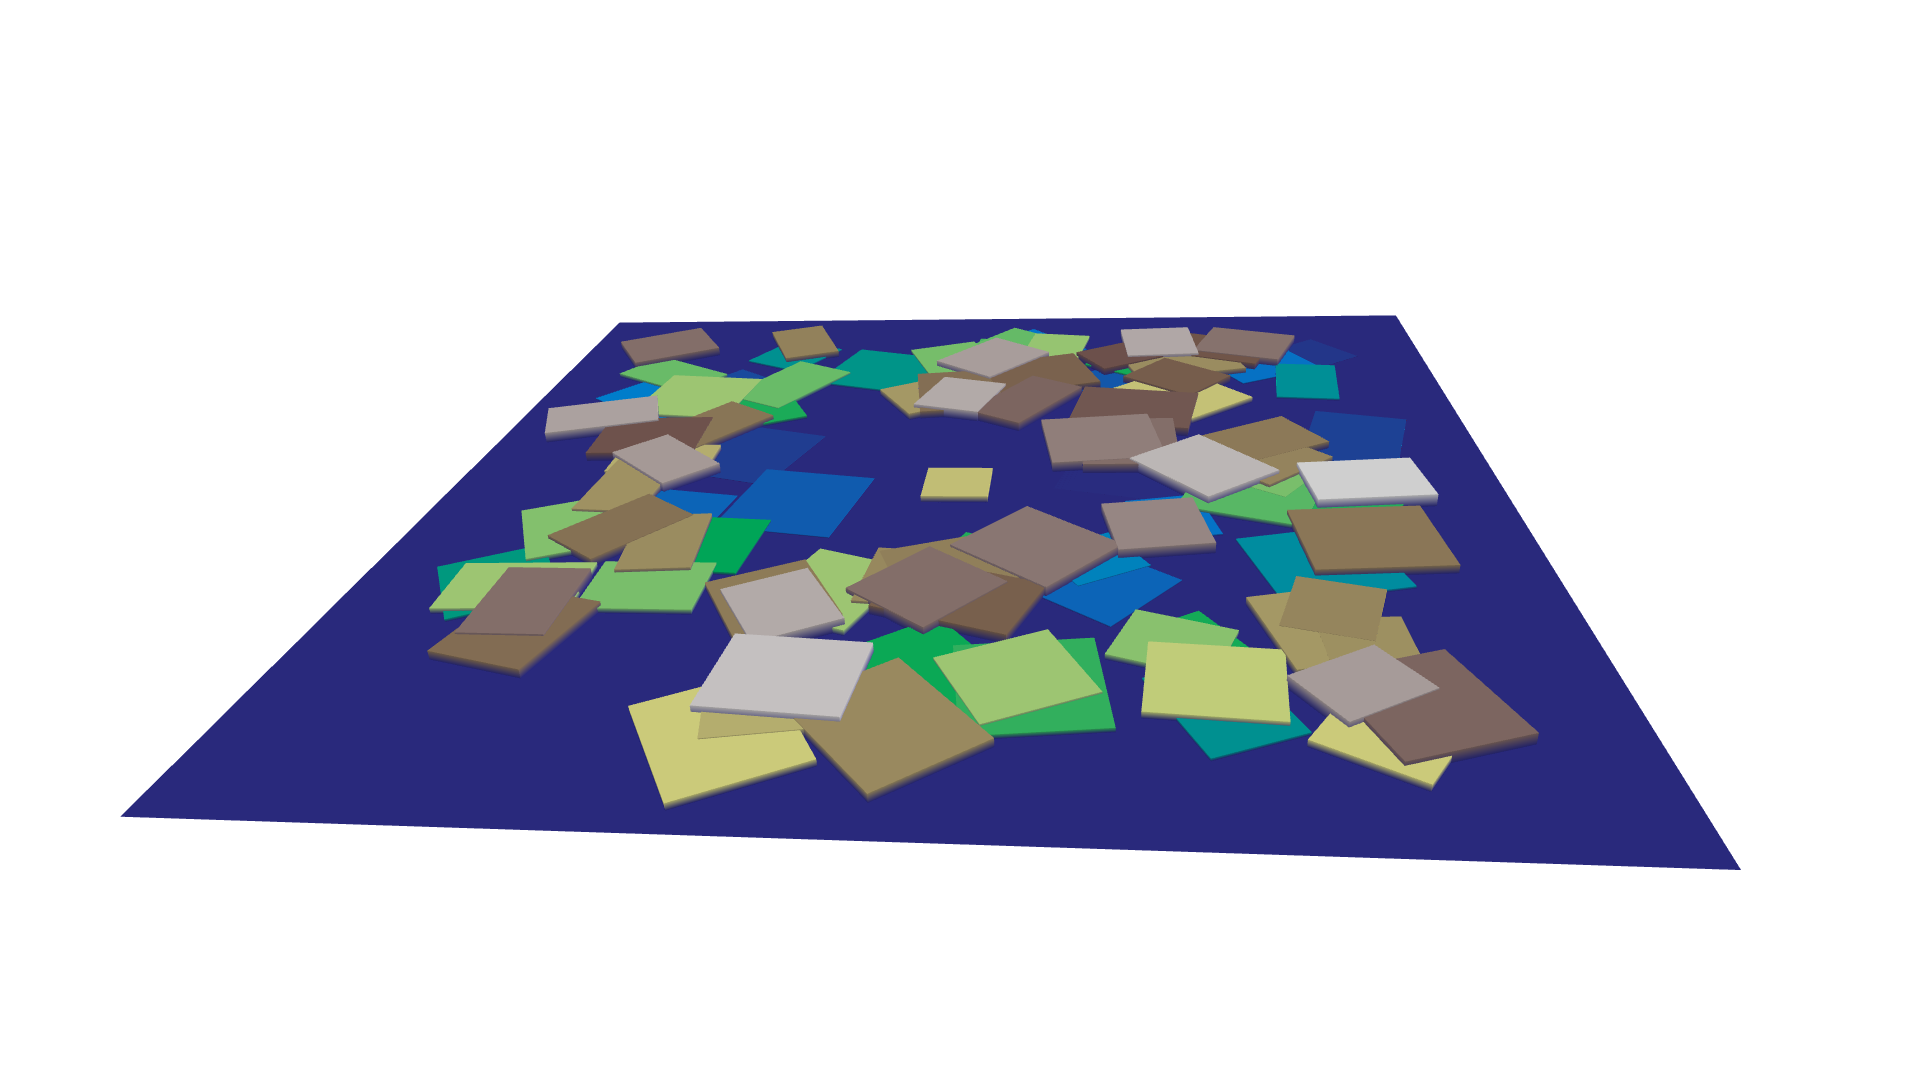
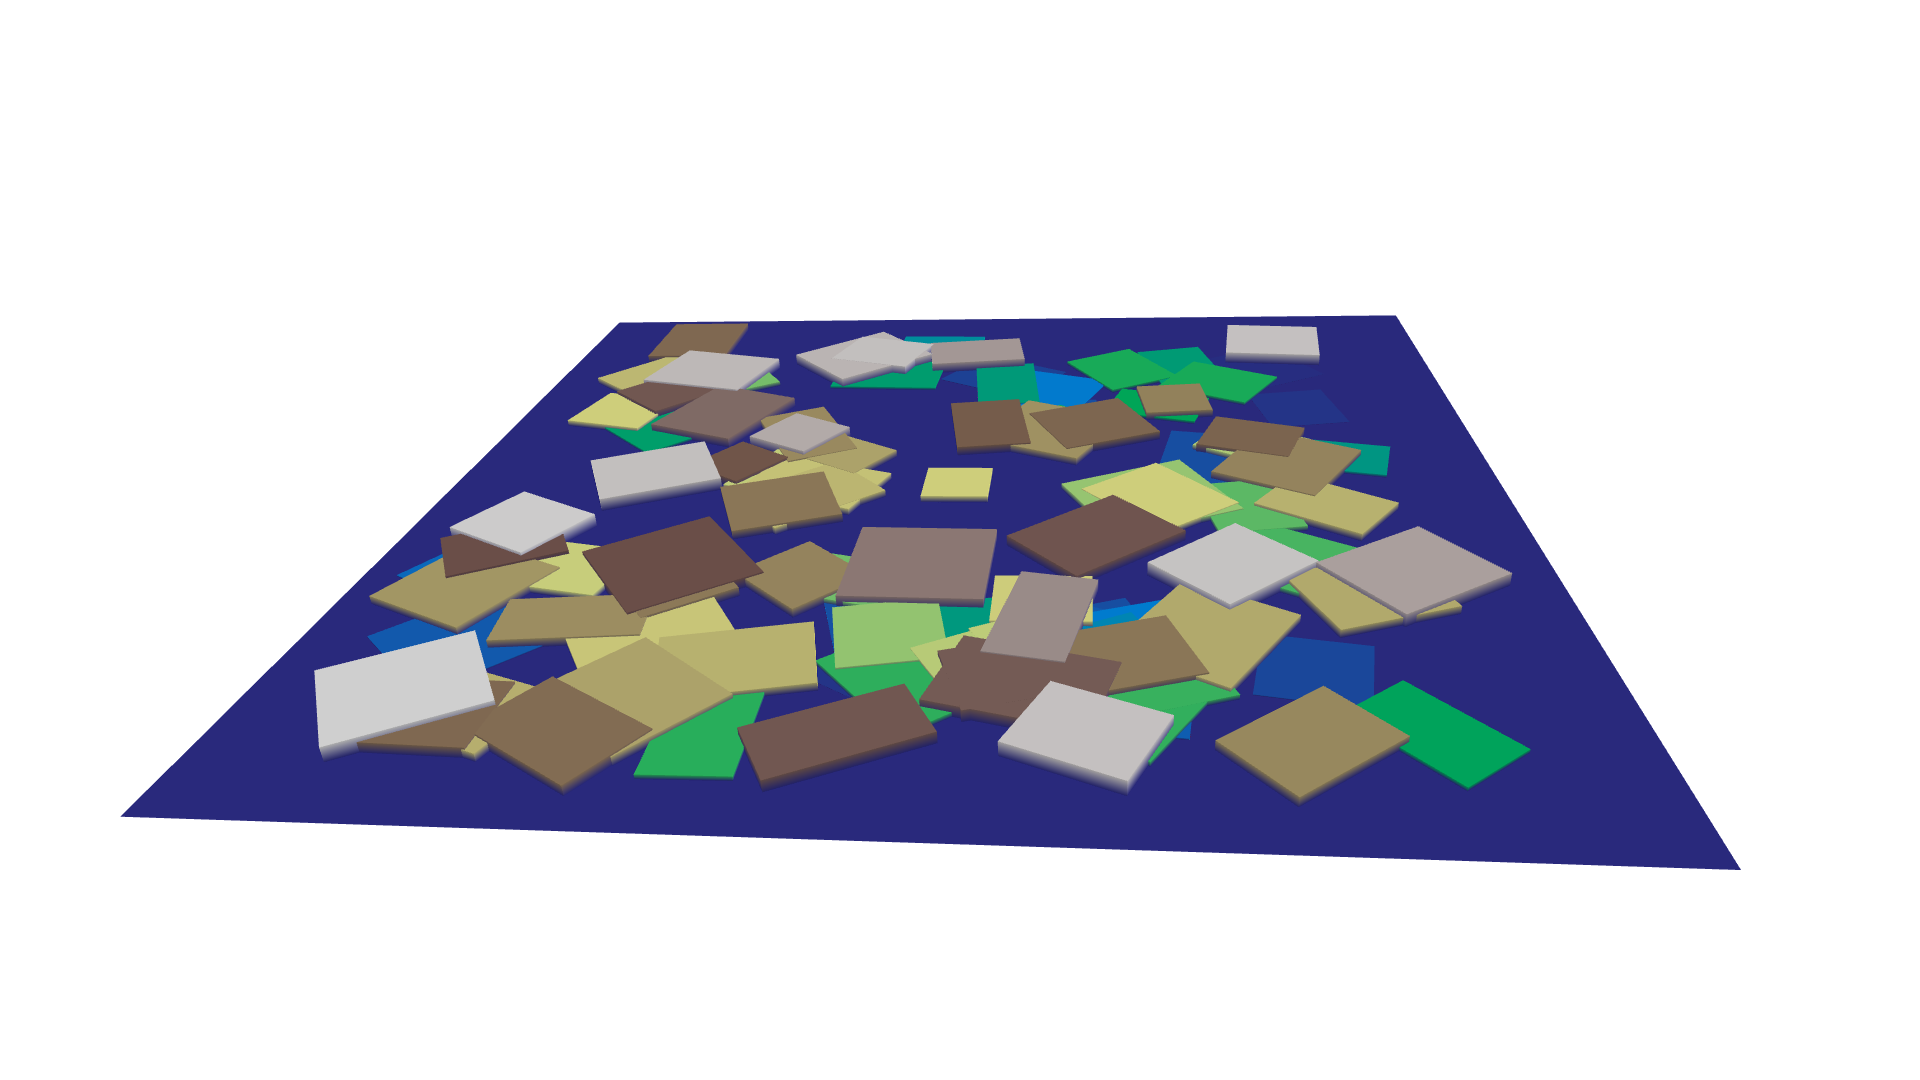
Add border mesh

Changed region(s): [[0.1562, 0.275, 0.8125, 0.7639]]

diff --git a/generators/terrain_generators.py b/generators/terrain_generators.py
@@ -2,6 +2,50 @@ from generators.terrain_perlin import generate_perlin_terrain
 from generators.terrain_stairs import generate_pyramid_stairs_terrain
 from generators.terrain_blocks import generate_block_terrain
 from generators.terrain_slope import generate_slope_terrain
+import numpy as np
+import trimesh
+
+
+def create_border(sizeX, sizeY, borderSize):
+    """
+    Generate a flat border mesh around a generated terrain.
+
+    Parameters:
+    - sizeX (float): Size of the whole terrain along the first axis.
+    - sizeY (float): Size of the whole terrain along the second axis.
+    - borderSize (float): Size of the border area.
+
+    Returns:
+    - trimesh.Trimesh: Mesh object representing the border.
+    """
+    hX = sizeX * 0.5
+    hY = sizeY * 0.5
+    center = [hX, hY]
+    vertices = np.array(
+        [
+            [center[0] - hX - borderSize, center[1] - hY - borderSize, 0.0],
+            [center[0] + hX + borderSize, center[1] - hY - borderSize, 0.0],
+            [center[0] + hX + borderSize, center[1] + hY + borderSize, 0.0],
+            [center[0] - hX - borderSize, center[1] + hY + borderSize, 0.0],
+            [center[0] - hX, center[1] - hY, 0.0],
+            [center[0] + hX, center[1] - hY, 0.0],
+            [center[0] + hX, center[1] + hY, 0.0],
+            [center[0] - hX, center[1] + hY, 0.0],
+        ]
+    )
+    faces = np.array(
+        [
+            [0, 1, 5],
+            [0, 5, 4],
+            [1, 2, 6],
+            [1, 6, 5],
+            [2, 3, 7],
+            [2, 7, 6],
+            [3, 0, 4],
+            [3, 4, 7],
+        ]
+    )
+    return trimesh.Trimesh(vertices=vertices, faces=faces)
 
 
 def stairs_upwards(difficulty):

diff --git a/generate_terrains.py b/generate_terrains.py
@@ -11,7 +11,7 @@ from datetime import datetime
 
 params = {}
 params["terrainSize"] = 8.0
-params["borderSize"] = 10.0
+params["borderSize"] = 2.5
 params["numLevels"] = 4
 params["numTerrains"] = 5
 params["resolution"] = 100
@@ -70,6 +70,15 @@ for i in tqdm(range(params["numTerrains"])):
         meshes.append(mesh)
         if j == 0:
             params["info"].append(info)
+
+# Add border
+meshes.append(
+    tgen.create_border(
+        params["terrainSize"] * params["numLevels"],
+        params["terrainSize"] * params["numTerrains"],
+        params["borderSize"],
+    )
+)
 
 world_mesh = trimesh.util.concatenate(meshes)
 
